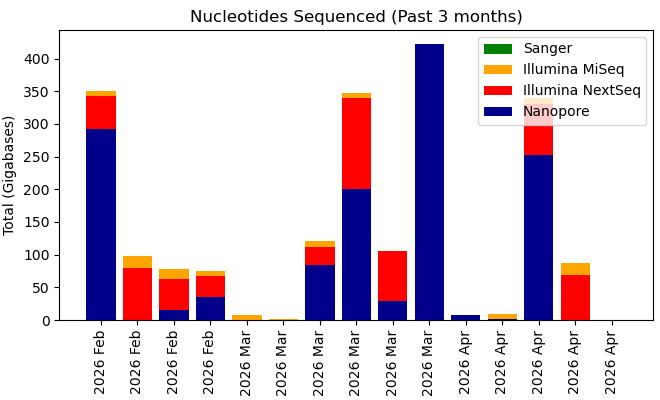
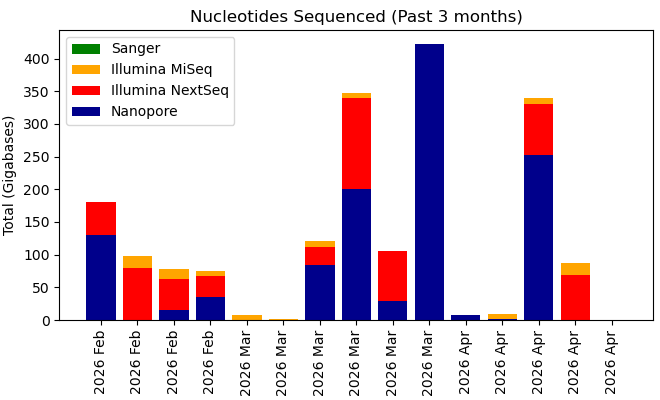
Your commit message here

Changed region(s): [[0.0909, 0.09, 0.3636, 0.6], [0.7273, 0.09, 0.9697, 0.33], [0.3333, 0.09, 0.3636, 0.12]]

diff --git a/krona/cgs.html b/krona/cgs.html
@@ -52,8 +52,8 @@ body {
   flex-direction: column;
 }
 </style>
-<H1>Genomics Facility Status: 07:00:14, 29/04/2026</H1>
-<marquee behavior="scroll" scrollamount="20" direction="left" bgcolor="lightgrey">GTCAATAGATGTGGTAGAAGTCGTCATTTGGCGAGAAAGCTCAGTCTCAGGAGGAAGCGGAGCAGTCCAAATGTTTTTGAGATGGCAGCAACGGAAACCATAACGAGCATCATCTTGATTAAGCTCATTAGGGTTAGCCTCGGTACGGTCAGGCATCCACGGCGCTTTAAAATAGTTGTTATAGATATTCAAATAACCCTGAAACAAATGCTTAGGGATTTTATTGGTATCAGGGTTAATCGTGCCAAGA</marquee>
+<H1>Genomics Facility Status: 07:00:19, 30/04/2026</H1>
+<marquee behavior="scroll" scrollamount="20" direction="left" bgcolor="lightgrey">TTTCTACTCTTTCTCAATCCCCAATGCTTGGCTTCCATACGCAGATGGATAACCGCATCAAGCTCTTGGAAGAGATTCTGTCTTTTCGTATGCAGGGCGTTGAGTTCGATAATGGTGATATGTATGTTGACGGCCATAAGGCTGCTTCTGACGTTCGTGATGAGTTTGTATCTGTTACTGAGAAGTTAATGGATGAATTGGCACAATGCTACAATGTGCTCCCCCAACTTGATATTAATAACACTATAGAC</marquee>
 <TABLE BORDER=0><TR><TD><TABLE class="styled-table"><H3>GigaBases Sequenced</H3>
-<TR><TD><b>Platform</b></TD><TD><b>Week</b></TD><TD><b>Month</b></TD><TD><b>Year</b></TD><TD><b>Total</b></TD></TR><TR><TD>Illumina MiSeq</TD><TD>18.42</TD><TD>34.32</TD><TD>353.61</TD><TD>551.42</TD></TR><TR><TD>Illumina NextSeq</TD><TD>68.55</TD><TD>146.59</TD><TD>4475.33</TD><TD>6610.53</TD></TR><TR><TD>Nanopore PromethION</TD><TD>0.0</TD><TD>684.24</TD><TD>7521.2</TD><TD>12132.68</TD></TR><TR><TD>Sanger</TD><TD>0.0</TD><TD>0.0</TD><TD>0.02</TD><TD>0.04</TD></TR></TABLE></TD><TD><IMG SRC="fig1.png"><IMG SRC="fig2.png"></TD></TR><TR><TD><H3>No. Samples (No. Experiments)</H3>
-<TABLE class="styled-table"><TR><TD><b>Platform</b></TD><TD><b>Week</b></TD><TD><b>Month</b></TD><TD><b>Year</b></TD><TD><b>Total</b></TD></TR><TR><TD>Illumina MiSeq</TD><TD>20 (3)</TD><TD>91 (5)</TD><TD>1418 (70)</TD><TD>2430 (98)</TD></TR><TR><TD>Illumina NextSeq</TD><TD>78 (2)</TD><TD>90 (3)</TD><TD>1407 (65)</TD><TD>2175 (86)</TD></TR><TR><TD>Nanopore PromethION</TD><TD>0 (0)</TD><TD>76 (31)</TD><TD>591 (192)</TD><TD>990 (343)</TD></TR><TR><TD>Sanger</TD><TD>576 (576)</TD><TD>2016 (2016)</TD><TD>20923 (20923)</TD><TD>44034 (44034)</TD></TR></TABLE></TD><TD><IMG SRC="fig4.png"></TD></TR></TABLE></HTML>
+<TR><TD><b>Platform</b></TD><TD><b>Week</b></TD><TD><b>Month</b></TD><TD><b>Year</b></TD><TD><b>Total</b></TD></TR><TR><TD>Illumina MiSeq</TD><TD>18.42</TD><TD>34.32</TD><TD>353.61</TD><TD>551.42</TD></TR><TR><TD>Illumina NextSeq</TD><TD>36.95</TD><TD>146.59</TD><TD>4475.33</TD><TD>6610.53</TD></TR><TR><TD>Nanopore PromethION</TD><TD>0.0</TD><TD>684.24</TD><TD>7521.2</TD><TD>12132.68</TD></TR><TR><TD>Sanger</TD><TD>0.0</TD><TD>0.0</TD><TD>0.02</TD><TD>0.04</TD></TR></TABLE></TD><TD><IMG SRC="fig1.png"><IMG SRC="fig2.png"></TD></TR><TR><TD><H3>No. Samples (No. Experiments)</H3>
+<TABLE class="styled-table"><TR><TD><b>Platform</b></TD><TD><b>Week</b></TD><TD><b>Month</b></TD><TD><b>Year</b></TD><TD><b>Total</b></TD></TR><TR><TD>Illumina MiSeq</TD><TD>20 (3)</TD><TD>91 (5)</TD><TD>1418 (70)</TD><TD>2430 (98)</TD></TR><TR><TD>Illumina NextSeq</TD><TD>60 (1)</TD><TD>90 (3)</TD><TD>1407 (65)</TD><TD>2175 (86)</TD></TR><TR><TD>Nanopore PromethION</TD><TD>0 (0)</TD><TD>76 (31)</TD><TD>591 (192)</TD><TD>990 (343)</TD></TR><TR><TD>Sanger</TD><TD>672 (672)</TD><TD>2112 (2112)</TD><TD>20923 (20923)</TD><TD>44130 (44130)</TD></TR></TABLE></TD><TD><IMG SRC="fig4.png"></TD></TR></TABLE></HTML>
